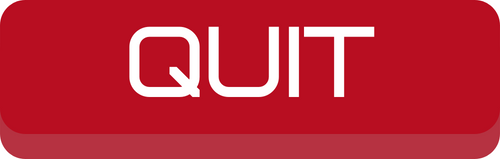
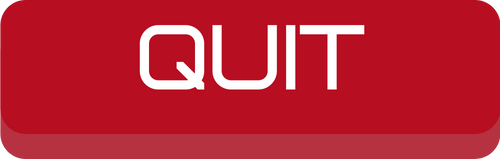
MAIN MENU W

diff --git a/RobotGamee/src/animation/MainMenu.java b/RobotGamee/src/animation/MainMenu.java
@@ -22,34 +22,80 @@ public class MainMenu {
 
 	private static GraphicsConsole gc = new GraphicsConsole(GRWIDTH, GRHEIGHT);
 
-	private static Rectangle playButton = new Rectangle(GRWIDTH / 2, GRHEIGHT / 4, 500, 500);
+	private static Rectangle playstartBTN = new Rectangle(GRWIDTH / 2, GRHEIGHT / 4, 500, 500);
 	private static Color playColor = Color.RED;
 	private static Rectangle CrossHair = new Rectangle(GRWIDTH / 2, GRHEIGHT / 2, GRHEIGHT / 10, GRHEIGHT / 10); // to
 																													// aim
 	private static Image crosshair;
 	private static Image bkg;
+
+	private static Rectangle startBTN = new Rectangle(556, 316, 298, 90);
+	private static Rectangle quitBTN = new Rectangle(556, 437, 298, 90);
+
+	private static Rectangle creditsBTN = new Rectangle(556, 560, 298, 90);
+
+	private static Image start;
+	private static Image quit;
+	private static Image credits;
+	private static boolean running = true;
+
 	public static void main(String[] args) throws LineUnavailableException, IOException, UnsupportedAudioFileException {
-		gc.enableMouseMotion();
-		gc.enableMouse(); // enables motion and click for the mouse
+
 		new MainMenu();
+
 	}
 
-	public MainMenu() throws IOException {
+	public MainMenu() throws IOException, LineUnavailableException, UnsupportedAudioFileException {
+		gc.enableMouseMotion();
+		gc.enableMouse(); // enables motion and click for the
+
 		crosshair = ImageIO.read(new File("crosshair.png"));
-		
 		bkg = ImageIO.read(new File("ROBOT.png"));
-		
-		
-		while (true) {
+		start = ImageIO.read(new File("darkStart.png"));
+		quit = ImageIO.read(new File("darkQuit.png"));
+		credits = ImageIO.read(new File("darkCredits.png"));
+
+		while (running) {
 			mechanics();
 			drawGraphics();
 			gc.sleep(1);
 		}
+		new AnimationMain(gc);
 	}
 
-	private void mechanics() {
+	private void mechanics() throws IOException, LineUnavailableException, UnsupportedAudioFileException {
 		CrossHair.x = gc.getMouseX() - (CrossHair.width / 2);
 		CrossHair.y = gc.getMouseY() - (CrossHair.height / 2);
+
+		if (gc.isKeyDown(37) || gc.isKeyDown(65))
+			startBTN.x -= 1;
+		if (gc.isKeyDown(39) || gc.isKeyDown(100) || gc.isKeyDown(68))
+			startBTN.x += 1;
+
+		if (gc.isKeyDown(87))
+			startBTN.y -= 1;
+		if (gc.isKeyDown(83))
+			startBTN.y += 1;
+
+		if (gc.isKeyDown(32))
+			System.out.println(startBTN.x + " x val. \t" + startBTN.y + " y val.");
+
+		if (CrossHair.intersects(startBTN))
+			start = ImageIO.read(new File("lightStart.png"));
+		else if (CrossHair.intersects(startBTN) && gc.getMouseClick() > 0) {
+			System.out.println("working");}
+		else
+			start = ImageIO.read(new File("darkStart.png"));
+
+		if (CrossHair.intersects(quitBTN))
+			quit = ImageIO.read(new File("lightQuit.png"));
+		else
+			quit = ImageIO.read(new File("darkQuit.png"));
+
+		if (CrossHair.intersects(creditsBTN))
+			credits = ImageIO.read(new File("lightCredits.png"));
+		else
+			credits = ImageIO.read(new File("darkCredits.png"));
 
 	}
 
@@ -57,7 +103,10 @@ public class MainMenu {
 		synchronized (gc) {
 			gc.clear();
 			gc.drawImage(bkg, 0, 0, GRWIDTH, GRHEIGHT);
-			gc.drawRect(new Rectangle(GRWIDTH / 2, GRHEIGHT / 4 + 100, 500, 109));
+			gc.setColor(Color.WHITE);
+			gc.drawImage(start, 556, 316, 298, 90);
+			gc.drawImage(quit, 556, 437, 298, 90);
+			gc.drawImage(credits, 556, 560, 298, 90);
 			gc.drawImage(crosshair, CrossHair.x, CrossHair.y, CrossHair.width, CrossHair.height);
 		}
 	}

diff --git a/RobotGamee/src/animation/AnimationMain.java b/RobotGamee/src/animation/AnimationMain.java
@@ -113,13 +113,11 @@ public class AnimationMain extends Rectangle {
 	private ArrayList<Rectangle> destroyedEnemies = new ArrayList<Rectangle>();
 	private static boolean newWave = true;
 
-	public AnimationMain(GraphicsConsole x, int GRWIDTH, int GRHEIGHT)
+	public AnimationMain(GraphicsConsole x)
 			throws LineUnavailableException, IOException, UnsupportedAudioFileException {
 
 		gc = x;
-		this.GRWIDTH = GRWIDTH;
-		this.GRHEIGHT = GRHEIGHT;
-
+	
 		initiate();
 
 		while (gc.getKeyCode() != 'Q') {
